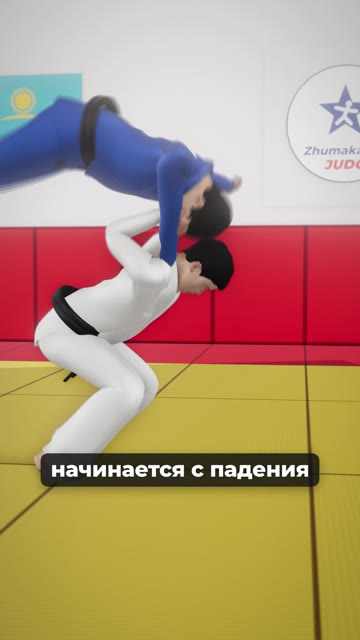
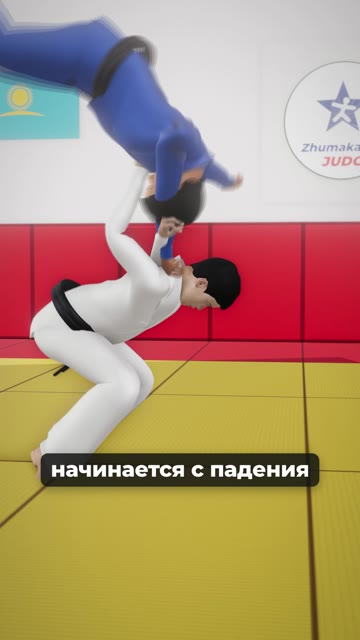
zavod: отправка — zhumakanov (zima)
Claude-Session: https://claude.ai/code/session_01VAFCkxJb86Jj4ccRNLRH78

diff --git a/zavod/otpravka-bscv6sc3s9/leads.js b/zavod/otpravka-bscv6sc3s9/leads.js
@@ -5,6 +5,26 @@
 // wa: цифры номера (текст подставится сам) или ссылка wa.me/message/… (текст копируется).
 window.LEADS = [
 {
+  "id": "ms-zhumakanov",
+  "date": "2026-11-07",
+  "lang": "kk",
+  "name": "Елдос Жумаканов · Judo Center Zhumakanov",
+  "sub": "Бронзовый призёр Азиатских игр 2018 (−66 кг), центр дзюдо его имени, 4 филиала в Алматы; @zhumakanov_yeldos 25 903",
+  "avatar": "img/a_ms-zhumakanov.jpg",
+  "poster": "img/ms-zhumakanov.jpg",
+  "reel": "https://www.instagram.com/reel/DfdVPnjnK9J/",
+  "clip": "Иппон начинается с падения: укеми и сеои-нагэ · 35 с · ram-3d",
+  "episode": "https://www.instagram.com/zhumakanov_center_judo/",
+  "wa": "77021660066",
+  "email": "",
+  "ig": "zhumakanov_yeldos",
+  "src": "Контакт: Елдос Жумаканов — клуб носит его имя: @zhumakanov_center_judo «Дзюдо 柔道 Центр им Жумаканова Е»; ig_check 08.11.2026 @zhumakanov_yeldos «Yeldos», 25 903 подписчика, последний пост 21.10.2026; его рилсы отмечают клуб и филиалы (https://www.instagram.com/reel/DaA_yb0NyF-/). WhatsApp +7 702 166 00 66 — подписан «Елдос» в био @zhumakanov_judo_taugul (в 2GIS 701 166 00 66, вероятно опечатка). Факты ролика: бронза Азиатских игр 2018, до 66 кг — https://informburo.kz/novosti/dzyudoist-eldos-zhumakanov-vyigral-bronzovuyu-medal-na-aziade.html, https://en.wikipedia.org/wiki/Yeldos_Zhumakanov; «взял иппоном» — схватка за бронзу 10:1 (https://newtimes.kz/kultura-i-sport/76951-tri-bronzovye-medali-zavoevali-kazakhstanskie-sportsmeny-na-aziade-2018) и заголовок kazpravda «Досрочная победа дзюдоиста…»; 4 филиала — https://2gis.kz/almaty/branches/70000001105675293.",
+  "check": "Текст по-казахски — Елжан читает перед отправкой. Ролик по-русски (голос kie по-казахски забракован носителем 02.11). Звук целиком на 1× не слушал, ролик целиком не смотрел — листы 3 fps. «Взял иппоном» — вывод: в схватке за бронзу счёт 10:1 (10 на табло IJF = иппон), заголовок kazpravda «Досрочная победа»; слова «иппон» в источниках нет. Дзюдоисты — наши 3D-персонажи, взрослые; зал нарисован по кадрам их рилсов; медаль в рамке — реквизит под факт. WhatsApp 702 166 00 66 — его линия из био филиала.",
+  "subject": "3D-ролик про центр дзюдо",
+  "text": "Елдос, сәлеметсіз бе! Дзюдо орталығыңыз туралы 3D-ролик жасадым: иппон құлай білуден басталады. Алдымен укеми, сосын сеои-нагэ, ал лақтырылған адам алақанымен татамиді ұрып, аман қалады. Түсірілімсіз, ашық материалдарыңыздан, дауысы синтезделген, ешкім тапсырыс бермеген.\nҚараңыз: {reel}\nҰнаса, тағы бір әдіс туралы жасаймын, өзіңіз таңдайсыз.",
+  "caption": "3D-ролик про центр дзюдо Елдоса Жумаканова: сначала укеми, умение падать, потом сеои-нагэ и иппон.\n\nСобран по открытым материалам компании, голос синтезированный. Компания его не заказывала."
+},
+{
   "id": "jidek",
   "date": "2026-11-07",
   "lang": "kk",
